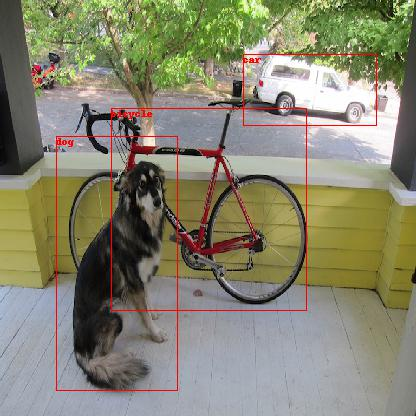
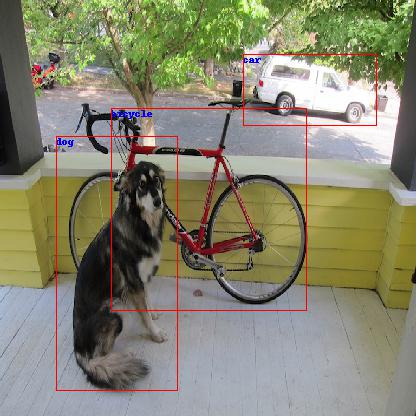
fix bugs in valid function

Changed region(s): [[0.25, 0.25, 0.375, 0.3125], [0.125, 0.3125, 0.1875, 0.375], [0.5625, 0.125, 0.6562, 0.1562]]

diff --git a/valid.py b/valid.py
@@ -13,7 +13,7 @@ from dataset_factory.VOCDataset import VOCDataset
 from utils.nms import nms 
 
 
-
+import time
 
 def valid(datacfg,weight_file,outfile):
 
@@ -31,6 +31,9 @@ def valid(datacfg,weight_file,outfile):
 
     model = yolo_v2()
     model.load_weights(weight_file)
+
+
+    print("weights %s loaded"%(weight_file))
     if torch.cuda.is_available():
         model.cuda()
     model.eval()
@@ -39,8 +42,12 @@ def valid(datacfg,weight_file,outfile):
     fps = [0]*model.num_classes
     if not os.path.exists('results'):
         os.mkdir('results')
+    dir_name = 'results/%s_%s_%s' %(namesfile.split('/')[-1].split('.')[0],weight_file.split('/')[-1].split('.')[0],time.strftime("%Y%m%d_%H%M%S",time.localtime()))
+    print 'save results to %s'%(dir_name)
+    if not os.path.exists(dir_name):
+        os.mkdir(dir_name)
     for i in range(model.num_classes):
-        buf ="%s/%s_%s.txt" % ('results',outfile,class_names[i])
+        buf ="%s/%s_%s.txt" % (dir_name,outfile,class_names[i])
         fps[i] = open(buf,'w')
     
     #construct datalist 
@@ -61,12 +68,12 @@ def valid(datacfg,weight_file,outfile):
 
             LineId = LineId +1
             image_name = image_files[LineId]
-            print "%d file:%s "%(LineId,image_name)
+            print "[Batch_index:%d] [%d/%d] file:%s "%(batch_index,LineId+1,len(image_files),image_name)
 
-            size = Image.open(image_name)
-            height,width =size[0],size[1] 
-            print "   height %d, width %d"%(height,width)
-            print "   bbox num %d" % (len(boxes))
+            img_orig = Image.open(image_name)
+            #print img_orig
+            height,width =img_orig.height,img_orig.width
+            print "   height %d, width %d, bbox num %d" % (height,width,len(boxes))
             for box in boxes:
                 x1 = (box[0] - box[2]/2.0)*width
                 y1 = (box[1] - box[3]/2.0)*height
@@ -74,23 +81,19 @@ def valid(datacfg,weight_file,outfile):
                 y2 = (box[1] + box[3]/2.0)*height
                 det_conf = box[4]
                 cls_id   = box[6]
-                fps[cls_id].write("%s %f %f %f %f %f\n",image_name,det_conf,x1,y1,x2,y2)
+                fps[cls_id].write("%s %f %f %f %f %f\n"%(image_name,det_conf,x1,y1,x2,y2))
 
     for i in range(model.num_classes):
         fps[i].close()
 
     pass
-    #get average precision
-
-
-
-
+    #get average precision using voc standard
 
 if __name__=="__main__":
     if len(sys.argv) == 3:
         datacfg = sys.argv[1]
         weightfile = sys.argv[2]
-        outfile = 'comp4_det_test_'
+        outfile = 'comp4_det_test'
         valid(datacfg,weightfile,outfile)
     else:
         print("Usage:")

diff --git a/detect.py b/detect.py
@@ -28,7 +28,7 @@ def plot_boxes(img,boxes,savename=None,class_names=None):
 			cls_conf = box[5]
 			cls_ind  = box[6]
 			print ('%12s: %8.5f %8.5f' %(class_names[cls_ind],cls_conf,thr))
-			rgb_anno = (255,0,0)
+			rgb_anno = (0,0,255)
 			draw.text((x1,y1),class_names[cls_ind],fill=rgb_anno)
 		#print("{} {} {} {} ".format(x1,y1,x2,y2))
 		draw.rectangle([x1,y1,x2,y2],outline=rgb)

diff --git a/models/yolo_v2.py b/models/yolo_v2.py
@@ -271,7 +271,7 @@ class yolo_v2(nn.Module):
 							#print "bbox {} {} {} {}".format(bcx,bcy,bw,bh)
 							box = [bcx/w,bcy/h,bw/w,bh/h,conf,cls_max_confs[ind],cls_max_ids[ind]] 
 							boxes.append(box)
-		all_boxes.append(boxes)
+			all_boxes.append(boxes)
 		return all_boxes
 
 	def forward(self,x):

diff --git a/README.md b/README.md
@@ -5,7 +5,7 @@ This repository is trying to achieve the following goals
 - [x] implement yolo v2 forward network using config yolo-voc.cfg
 - [x] implement load darknet's  yolo-voc.weights()
 - [x] implement detect function
-- [o] implement valid function using pascal voc standard 
+- [x] implement valid function using pascal voc standard 
 - [o] optimize forward process to make it using less gpu memory
 - [o] implement darknet loss
 - [o] implement training pascal voc
